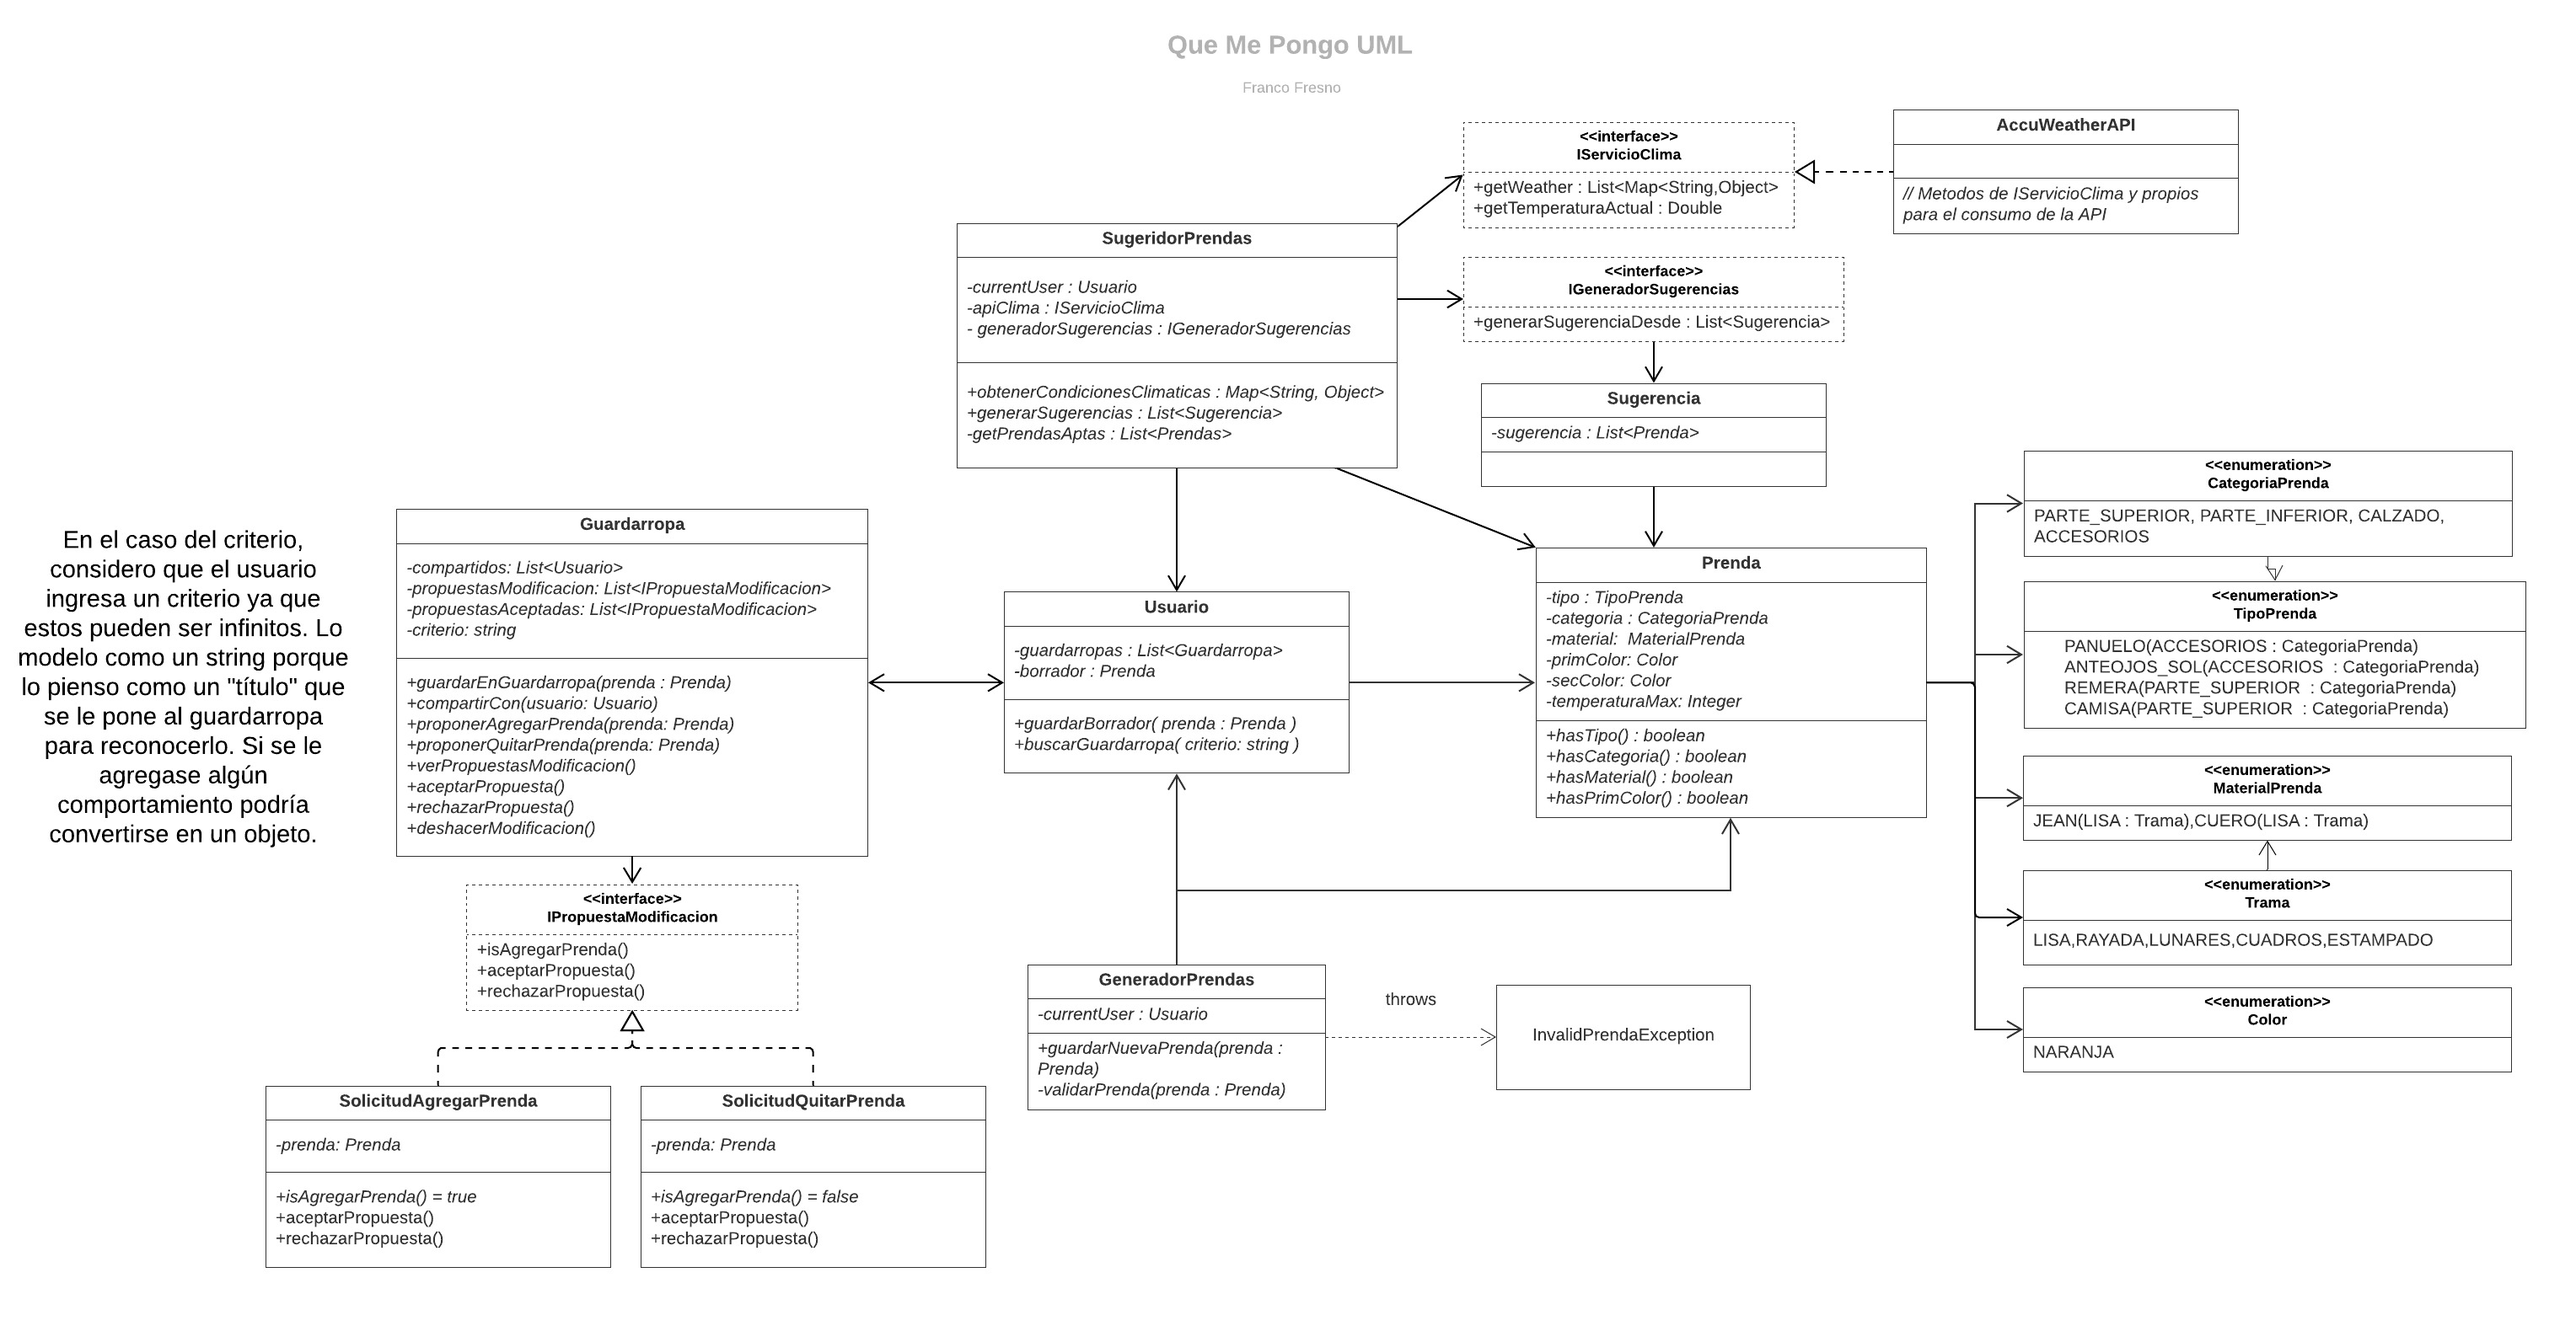
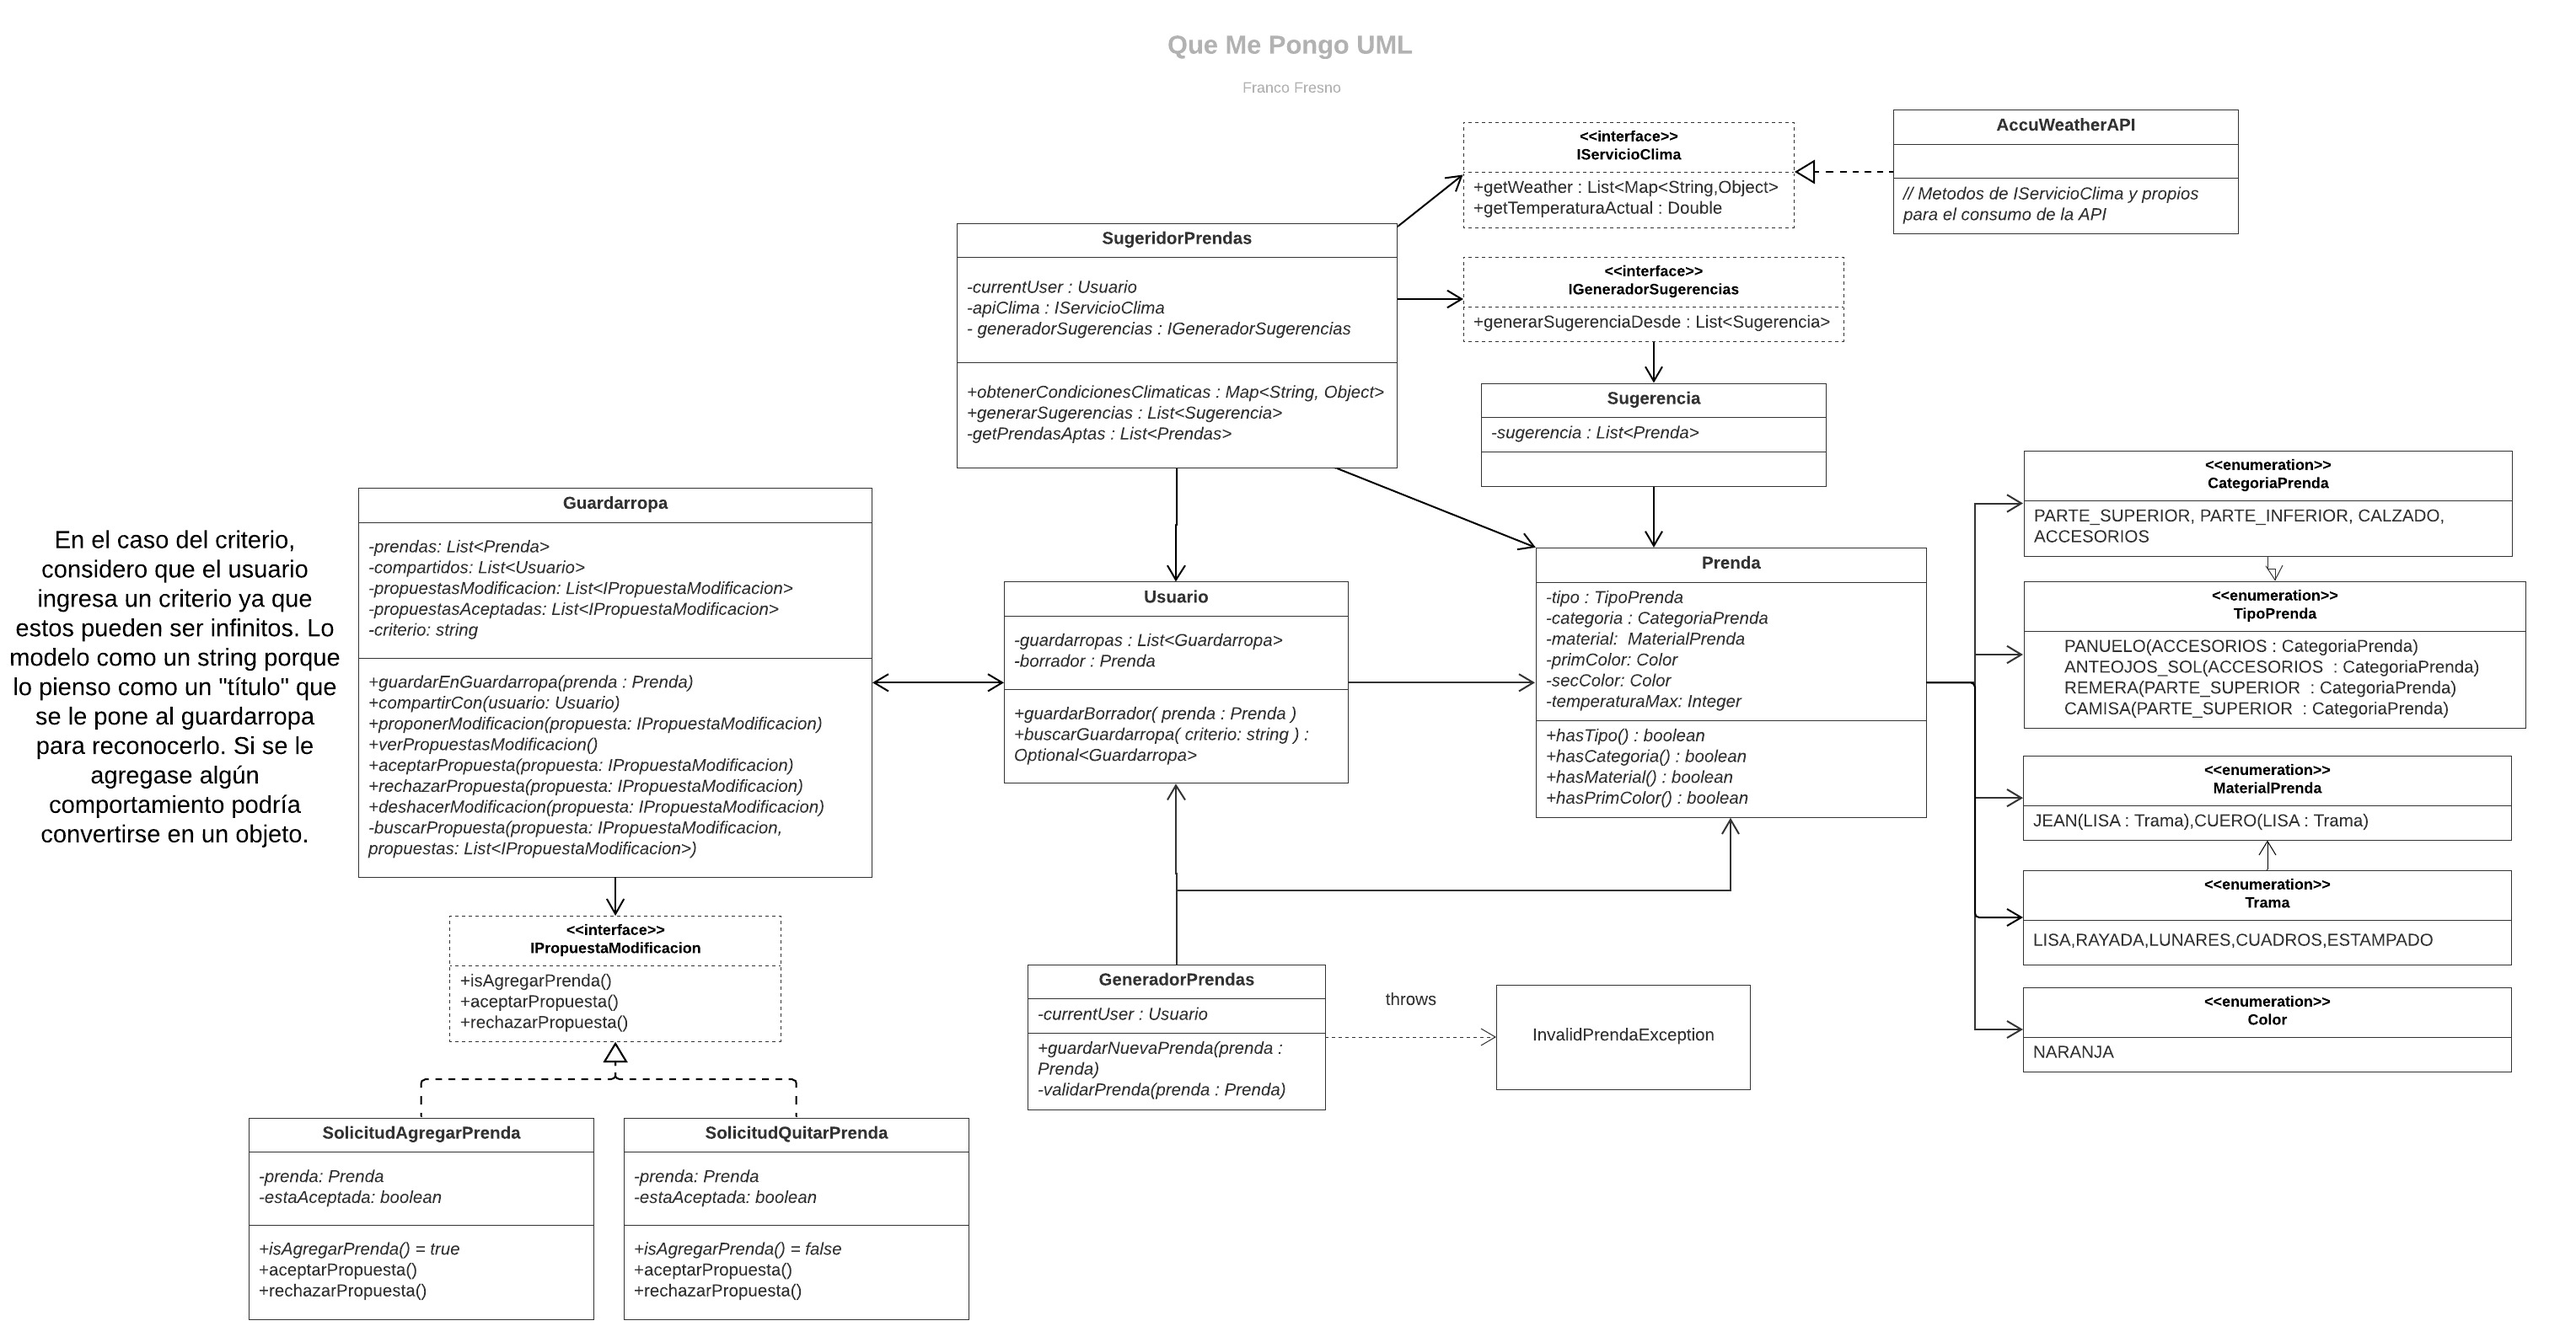
iteracion 5

diff --git a/src/main/java/queMePongo/entity/model/Guardarropa.java b/src/main/java/queMePongo/entity/model/Guardarropa.java
@@ -1,10 +1,54 @@
 package queMePongo.entity.model;
 
 import java.util.List;
+import java.util.NoSuchElementException;
+import java.util.Optional;
+
+import queMePongo.interfaces.IPropuestaModificacion;
 
 public class Guardarropa {
 	List<Prenda> prendas;
 	List<Usuario> compartidos;
+	List<IPropuestaModificacion> propuestasModificacion;
+	List<IPropuestaModificacion> propuestasAceptadas;
+	String criterio;
+
+	public void guardarEnGuardarropa(Prenda prenda) {
+		this.prendas.add(prenda);
+	}
+	
+	public void compartirCon(Usuario usuario) {
+		this.compartidos.add(usuario);
+	}
+	
+	public void proponerModificacion(IPropuestaModificacion propuesta) {
+		this.propuestasModificacion.add(propuesta);
+	}
+
+	public List<IPropuestaModificacion> verPropuestasModificacion() {
+		return this.propuestasModificacion;
+	}
+	
+	public void aceptarPropuesta(IPropuestaModificacion propuesta) {
+		IPropuestaModificacion propuestaModificacion = buscarPropuesta(propuesta, this.propuestasModificacion);
+		propuestaModificacion.aceptarPropuesta();
+		this.propuestasAceptadas.add(propuestaModificacion);
+	}
+	
+	public void rechazarPropuesta(IPropuestaModificacion propuesta) {
+		IPropuestaModificacion propuestaModificacion = buscarPropuesta(propuesta, this.propuestasModificacion);
+		propuestaModificacion.rechazarPropuesta();
+	}
+	
+	public void deshacerModificacion(IPropuestaModificacion propuesta) {
+		IPropuestaModificacion propuestaAceptada= buscarPropuesta(propuesta, this.propuestasAceptadas);
+		this.propuestasAceptadas.remove(propuestaAceptada);
+	}
+	
+	private IPropuestaModificacion buscarPropuesta(IPropuestaModificacion propuesta, List<IPropuestaModificacion> propuestas) {
+		Optional<IPropuestaModificacion> o = propuestas.stream().filter(propuestaModificacion -> { return propuestaModificacion.equals(propuesta); }).findAny();
+		return o.orElseThrow();
+	}
 
 	public List<Prenda> getPrendas() {
 		return prendas;
@@ -13,9 +57,13 @@ public class Guardarropa {
 	public void setPrendas(List<Prenda> prendas) {
 		this.prendas = prendas;
 	}
-	
-	public void compartirCon(Usuario usuario) {
-		this.compartidos.add(usuario);
+
+	public String getCriterio() {
+		return criterio;
 	}
-	
+
+	public void setCriterio(String criterio) {
+		this.criterio = criterio;
+	}
+
 }

diff --git a/src/main/java/queMePongo/SugeridorPrendas.java b/src/main/java/queMePongo/SugeridorPrendas.java
@@ -4,6 +4,7 @@ import java.util.List;
 import java.util.Map;
 import java.util.stream.Collectors;
 
+import queMePongo.entity.model.Guardarropa;
 import queMePongo.entity.model.Prenda;
 import queMePongo.entity.model.Sugerencia;
 import queMePongo.entity.model.Usuario;
@@ -11,12 +12,10 @@ import queMePongo.interfaces.IGeneradorSugerencias;
 import queMePongo.interfaces.IServicioClima;
 
 public class SugeridorPrendas {
-	private Usuario currentUser;
 	private IServicioClima apiClima;
 	private IGeneradorSugerencias generadorSugerencias;
 
 	public SugeridorPrendas(Usuario currentUser, IServicioClima apiClima, IGeneradorSugerencias generadorSugerencias ) {
-		this.currentUser = currentUser;
 		this.apiClima = apiClima;
 		this.generadorSugerencias = generadorSugerencias;
 	}
@@ -25,12 +24,15 @@ public class SugeridorPrendas {
 		return this.apiClima.getWeather(city, country).get(0);
 	}
 	
-	public List<Sugerencia> generarSugerencias(String city, String country) {
-		List<Prenda> prendasAptas = this.getPrendasAptas(city, country);
+	public List<Sugerencia> generarSugerencias(String city, String country, Guardarropa guardarropa) {
+		List<Prenda> prendasAptas = this.getPrendasAptas(city, country, guardarropa);
 		return this.generadorSugerencias.generarSugerenciasDesde(prendasAptas);
 	}
 	
-	private List<Prenda> getPrendasAptas(String city, String country) {
-		return this.currentUser.getGuardarropa().stream().filter(prenda -> prenda.getTipo().getTemperaturaMax() <= this.apiClima.getTemperaturaActual(city, country)).collect(Collectors.toList());
+	private List<Prenda> getPrendasAptas(String city, String country, Guardarropa guardarropa) {
+		return guardarropa.getPrendas()
+				.stream()
+				.filter(prenda -> prenda.getTipo().getTemperaturaMax() <= this.apiClima.getTemperaturaActual(city, country))
+				.collect(Collectors.toList());
 	}
 }

diff --git a/src/main/java/queMePongo/entity/model/SolicitudAgregarPrenda.java b/src/main/java/queMePongo/entity/model/SolicitudAgregarPrenda.java
@@ -1,0 +1,49 @@
+package queMePongo.entity.model;
+
+import queMePongo.interfaces.IPropuestaModificacion;
+
+public class SolicitudAgregarPrenda implements IPropuestaModificacion {
+
+	Prenda prenda;
+	boolean estaAceptada;
+
+	@Override
+	public boolean isAgregarPrenda() {
+		return true;
+	}
+
+	@Override
+	public void aceptarPropuesta() {
+		this.estaAceptada = true;
+	}
+
+	@Override
+	public void rechazarPropuesta() {
+		this.estaAceptada = false;
+	}
+
+	@Override
+	public boolean equals(Object o) {
+
+		if (o == this) {
+			return true;
+		}
+
+		if (!(o instanceof SolicitudAgregarPrenda)) {
+			return false;
+		}
+
+		SolicitudAgregarPrenda solicitudObj = (SolicitudAgregarPrenda) o;
+
+		return this.prenda.equals(solicitudObj.getPrenda());
+	}
+
+	public Prenda getPrenda() {
+		return prenda;
+	}
+
+	public void setPrenda(Prenda prenda) {
+		this.prenda = prenda;
+	}
+
+}

diff --git a/src/main/java/queMePongo/entity/model/SolicitudQuitarPrenda.java b/src/main/java/queMePongo/entity/model/SolicitudQuitarPrenda.java
@@ -1,0 +1,48 @@
+package queMePongo.entity.model;
+
+import queMePongo.interfaces.IPropuestaModificacion;
+
+public class SolicitudQuitarPrenda implements IPropuestaModificacion {
+
+	Prenda prenda;
+	boolean estaAceptada;
+
+	@Override
+	public boolean isAgregarPrenda() {
+		return false;
+	}
+
+	@Override
+	public void aceptarPropuesta() {
+		this.estaAceptada = true;
+	}
+
+	@Override
+	public void rechazarPropuesta() {
+		this.estaAceptada = false;
+	}
+
+	@Override
+	public boolean equals(Object o) {
+
+		if (o == this) {
+			return true;
+		}
+
+		if (!(o instanceof SolicitudAgregarPrenda)) {
+			return false;
+		}
+
+		SolicitudAgregarPrenda solicitudObj = (SolicitudAgregarPrenda) o;
+
+		return this.prenda.equals(solicitudObj.getPrenda());
+	}
+
+	public Prenda getPrenda() {
+		return prenda;
+	}
+
+	public void setPrenda(Prenda prenda) {
+		this.prenda = prenda;
+	}
+}

diff --git a/src/main/java/queMePongo/GeneradorPrendas.java b/src/main/java/queMePongo/GeneradorPrendas.java
@@ -1,20 +1,15 @@
 package queMePongo;
 
+import queMePongo.entity.model.Guardarropa;
 import queMePongo.entity.model.Prenda;
 import queMePongo.entity.model.Usuario;
 import queMePongo.exceptions.InvalidPrendaException;
 
 public class GeneradorPrendas {
 
-	private Usuario currentUser;
-
-	public GeneradorPrendas(Usuario currentUser) {
-		this.currentUser = currentUser;
-	}
-
-	public void guardarNuevaPrenda(Prenda prenda) throws InvalidPrendaException {
+	public void guardarNuevaPrenda(Prenda prenda, Guardarropa guardarropa) throws InvalidPrendaException {
 		validarPrenda(prenda);
-		currentUser.guardarEnGuardarropa(prenda);
+		guardarropa.guardarEnGuardarropa(prenda);
 	}
 
 	private void validarPrenda(Prenda prenda) throws InvalidPrendaException {

diff --git a/src/main/java/queMePongo/entity/model/Usuario.java b/src/main/java/queMePongo/entity/model/Usuario.java
@@ -2,21 +2,23 @@ package queMePongo.entity.model;
 
 import java.util.ArrayList;
 import java.util.List;
+import java.util.Optional;
 
 public class Usuario {
 
 	List<Guardarropa> guardarropas;
+	Prenda borrador;
 
 	public Usuario() {
 		this.guardarropas = new ArrayList<Guardarropa>();
 	}
 
-	public void guardarEnGuardarropa(Prenda prenda) {
-		//this.guardarropas.add(prenda);
+	public void guardarBorrador(Prenda prenda) {
+		this.borrador = prenda;
 	}
 	
-	
-
-
+	public Optional<Guardarropa> buscarGuardarropa(String criterio) {
+		return this.guardarropas.stream().filter(guardarropa -> guardarropa.getCriterio() == criterio).findAny();
+	}
 
 }

diff --git a/src/main/java/queMePongo/entity/model/Prenda.java b/src/main/java/queMePongo/entity/model/Prenda.java
@@ -69,4 +69,24 @@ public class Prenda {
 		return primColor != null;
 	}
 
+	@Override
+	public boolean equals(Object o) {
+
+		if (o == this) {
+			return true;
+		}
+
+		if (!(o instanceof Prenda)) {
+			return false;
+		}
+
+		Prenda prendaObj = (Prenda) o;
+		
+		return this.tipo.equals(prendaObj.getTipo()) 
+				&& this.categoria.equals(prendaObj.getCategoria()) 
+				&& this.material.equals(prendaObj.getMaterial())
+				&& this.primColor.equals(prendaObj.getPrimColor())
+				&& this.secColor.equals(prendaObj.getSecColor());
+	}
+	
 }

diff --git a/src/main/java/queMePongo/interfaces/IPropuestaModificacion.java b/src/main/java/queMePongo/interfaces/IPropuestaModificacion.java
@@ -1,0 +1,10 @@
+package queMePongo.interfaces;
+
+public interface IPropuestaModificacion {
+	
+	public boolean isAgregarPrenda();
+
+	public void aceptarPropuesta();
+
+	public void rechazarPropuesta();
+}
